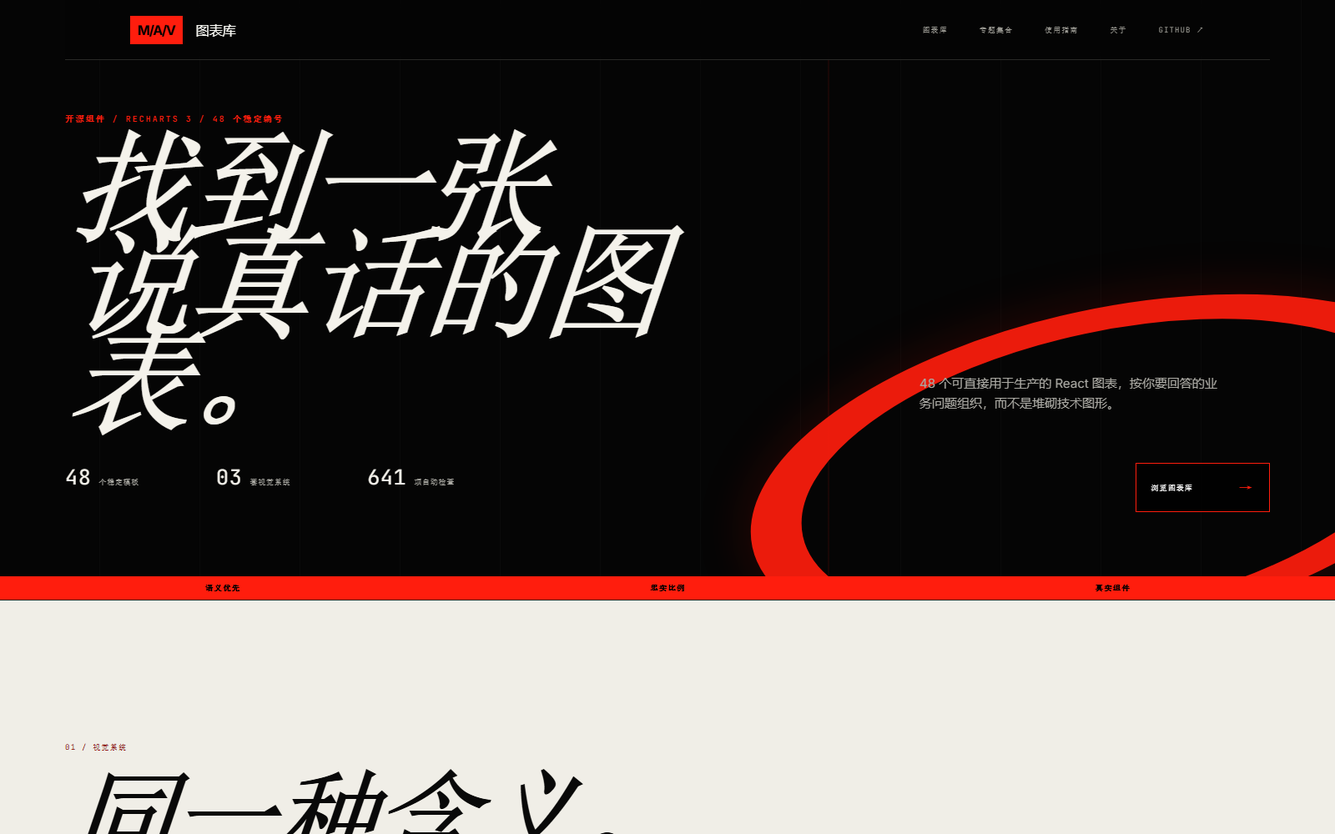
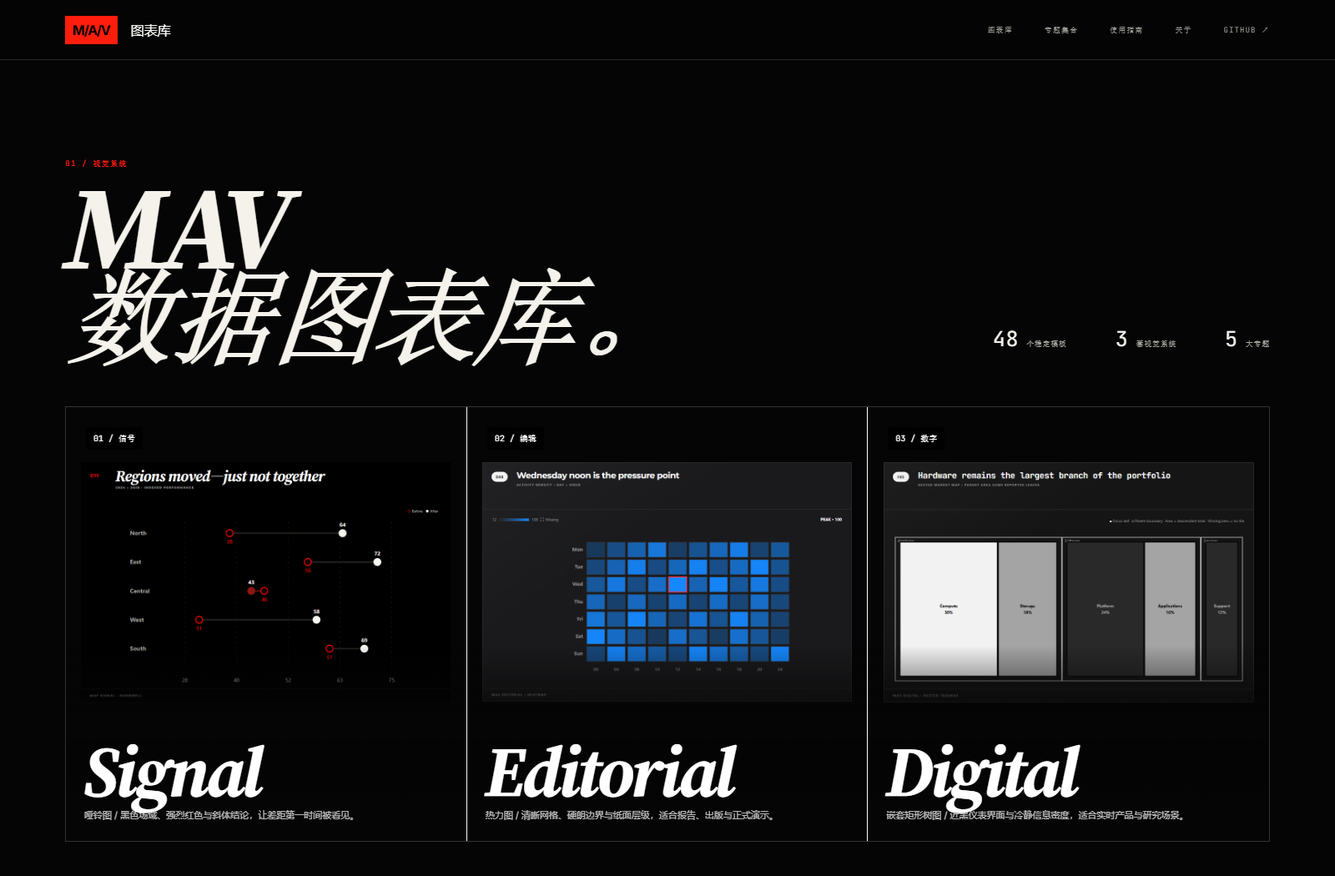
Refine MAV Charts library homepage (#3)
* Refine MAV Charts library homepage

* Refresh repository preview screenshots

diff --git a/src/library/LibraryApp.jsx b/src/library/LibraryApp.jsx
@@ -121,35 +121,45 @@ function SiteFooter() {
   return <footer className="library-footer"><span>MAV CHARTS / {VERSION} 预览版</span><span>图表目录与源码同步 · COMMIT {COMMIT}</span></footer>;
 }
 
+function HeatmapCrystal({ className = "" }) {
+  return (
+    <div className={`heatmap-crystal ${className}`.trim()} aria-hidden="true">
+      <img src={`${import.meta.env.BASE_URL}catalog/D08-signal.png`} alt="" />
+    </div>
+  );
+}
+
+function PageMasthead({ eyebrow, title, copy }) {
+  return (
+    <header className="page-masthead">
+      <span>{eyebrow}</span>
+      <h1>{title}</h1>
+      <p>{copy}</p>
+      <HeatmapCrystal className="masthead-crystal" />
+    </header>
+  );
+}
+
 function HomePage() {
   const featuredIds = ["C10", "T12", "D03", "F02", "P03", "B01"];
   const featured = featuredIds.map((id) => prototypeCatalog.find((item) => item.id === id)).filter(Boolean);
   return (
     <main className="library-shell home-page">
-      <header className="library-hero">
-        <SiteNav />
-        <div className="library-hero-grid">
-          <div className="library-kicker">开源组件 / RECHARTS 3 / 48 个稳定编号</div>
-          <h1>找到一张<br />说真话的图表。</h1>
-          <p>Production React charts organized by the business question—not by a gallery of technical primitives.</p>
-          <div className="library-proof" aria-label="图表库概况"><span><strong>48</strong> 个图表模板</span><span><strong>03</strong> 套视觉系统</span><span><strong>641</strong> 项自动检查</span></div>
-          <a className="site-primary-cta" href={href("/library")}>EXPLORE THE LIBRARY <span>↗</span></a>
+      <SiteNav />
+      <section className="system-manifesto home-system-manifesto" aria-labelledby="systems-heading">
+        <div className="system-intro-heading">
+          <div><div className="section-index">01 / 视觉系统</div><h2 id="systems-heading">MAV<br />数据图表库。</h2></div>
+          <div className="library-proof" aria-label="图表库概况"><span><strong>48</strong> 个稳定模板</span><span><strong>3</strong> 套视觉系统</span><span><strong>5</strong> 大专题</span></div>
         </div>
-        <div className="library-redline" aria-hidden="true"><span>语义优先</span><span>忠实比例</span><span>真实组件</span></div>
-      </header>
-
-      <section className="system-manifesto" aria-labelledby="systems-heading">
-        <div className="section-index">01 / 视觉系统</div>
-        <h2 id="systems-heading">同一种含义。<br />三种表达。</h2>
         <div className="system-manifesto-grid">
-          <article className="system-tile is-signal"><span>01 / 信号</span><img className="system-preview" src={`${import.meta.env.BASE_URL}catalog/D03-signal.png`} alt="Signal 风格气泡象限图" /><h3>Signal</h3><p>黑色场域、强烈红色与斜体结论，让唯一重点第一时间被看见。</p></article>
-          <article className="system-tile is-editorial"><span>02 / 编辑</span><img className="system-preview" src={`${import.meta.env.BASE_URL}catalog/D03-editorial.png`} alt="Editorial 风格气泡象限图" /><h3>Editorial</h3><p>清晰网格、硬朗边界与纸面层级，适合报告、出版与正式演示。</p></article>
-          <article className="system-tile is-digital"><span>03 / 数字</span><img className="system-preview" src={`${import.meta.env.BASE_URL}catalog/D03-digital.png`} alt="Digital 风格气泡象限图" /><h3>Digital</h3><p>近黑仪表界面、细密刻度与冷静信息密度，适合实时产品与研究场景。</p></article>
+          <article className="system-tile is-signal"><span>01 / 信号</span><img className="system-preview" src={`${import.meta.env.BASE_URL}catalog/C11-signal.png`} alt="Signal 风格哑铃图" /><h3>Signal</h3><p>哑铃图 / 黑色场域、强烈红色与斜体结论，让差距第一时间被看见。</p></article>
+          <article className="system-tile is-editorial"><span>02 / 编辑</span><img className="system-preview" src={`${import.meta.env.BASE_URL}catalog/D08-editorial.png`} alt="Editorial 风格热力图" /><h3>Editorial</h3><p>热力图 / 清晰网格、硬朗边界与纸面层级，适合报告、出版与正式演示。</p></article>
+          <article className="system-tile is-digital"><span>03 / 数字</span><img className="system-preview" src={`${import.meta.env.BASE_URL}catalog/F05-digital.png`} alt="Digital 风格嵌套矩形树图" /><h3>Digital</h3><p>嵌套矩形树图 / 近黑仪表界面与冷静信息密度，适合实时产品与研究场景。</p></article>
         </div>
       </section>
 
       <section className="featured-section">
-        <div className="section-heading"><div><span>02 / SELECTED WORK</span><h2>Six ways to make<br />the point visible.</h2></div><a href={href("/library")}>VIEW ALL 48 ↗</a></div>
+        <div className="section-heading"><div><span>02 / SELECTED WORK</span><h2>Six ways to make<br />the point visible.</h2></div><a className="library-browse-cta" href={href("/library")}>浏览图表库 <span>→</span></a></div>
         <div className="library-grid featured-grid">{featured.map((item, index) => <ChartCard key={item.id} item={item} index={index} />)}</div>
       </section>
 
@@ -167,30 +177,21 @@ function HomePageZh() {
   const featured = featuredIds.map((id) => prototypeCatalog.find((item) => item.id === id)).filter(Boolean);
   return (
     <main className="library-shell home-page">
-      <header className="library-hero">
-        <SiteNav />
-        <div className="library-hero-grid">
-          <div className="library-kicker">开源组件 / RECHARTS 3 / 48 个稳定编号</div>
-          <h1>找到一张<br />说真话的图表。</h1>
-          <p>48 个可直接用于生产的 React 图表，按你要回答的业务问题组织，而不是堆砌技术图形。</p>
-          <div className="library-proof" aria-label="图表库概况"><span><strong>48</strong> 个稳定模板</span><span><strong>03</strong> 套视觉系统</span><span><strong>641</strong> 项自动检查</span></div>
-          <a className="site-primary-cta" href={href("/library")}>浏览图表库 <span>→</span></a>
+      <SiteNav />
+      <section className="system-manifesto home-system-manifesto" aria-labelledby="systems-heading-zh">
+        <div className="system-intro-heading">
+          <div><div className="section-index">01 / 视觉系统</div><h2 id="systems-heading-zh">MAV<br />数据图表库。</h2></div>
+          <div className="library-proof" aria-label="图表库概况"><span><strong>48</strong> 个稳定模板</span><span><strong>3</strong> 套视觉系统</span><span><strong>5</strong> 大专题</span></div>
         </div>
-        <div className="library-redline" aria-hidden="true"><span>语义优先</span><span>忠实比例</span><span>真实组件</span></div>
-      </header>
-
-      <section className="system-manifesto" aria-labelledby="systems-heading-zh">
-        <div className="section-index">01 / 视觉系统</div>
-        <h2 id="systems-heading-zh">同一种含义。<br />三种表达。</h2>
         <div className="system-manifesto-grid">
-          <article className="system-tile is-signal"><span>01 / 信号</span><img className="system-preview" src={`${import.meta.env.BASE_URL}catalog/D03-signal.png`} alt="Signal 风格气泡象限图" /><h3>Signal</h3><p>黑色场域、强烈红色与斜体结论，让唯一重点第一时间被看见。</p></article>
-          <article className="system-tile is-editorial"><span>02 / 编辑</span><img className="system-preview" src={`${import.meta.env.BASE_URL}catalog/D03-editorial.png`} alt="Editorial 风格气泡象限图" /><h3>Editorial</h3><p>清晰网格、硬朗边界与纸面层级，适合报告、出版与正式演示。</p></article>
-          <article className="system-tile is-digital"><span>03 / 数字</span><img className="system-preview" src={`${import.meta.env.BASE_URL}catalog/D03-digital.png`} alt="Digital 风格气泡象限图" /><h3>Digital</h3><p>近黑仪表界面、细密刻度与冷静信息密度，适合实时产品与研究场景。</p></article>
+          <article className="system-tile is-signal"><span>01 / 信号</span><img className="system-preview" src={`${import.meta.env.BASE_URL}catalog/C11-signal.png`} alt="Signal 风格哑铃图" /><h3>Signal</h3><p>哑铃图 / 黑色场域、强烈红色与斜体结论，让差距第一时间被看见。</p></article>
+          <article className="system-tile is-editorial"><span>02 / 编辑</span><img className="system-preview" src={`${import.meta.env.BASE_URL}catalog/D08-editorial.png`} alt="Editorial 风格热力图" /><h3>Editorial</h3><p>热力图 / 清晰网格、硬朗边界与纸面层级，适合报告、出版与正式演示。</p></article>
+          <article className="system-tile is-digital"><span>03 / 数字</span><img className="system-preview" src={`${import.meta.env.BASE_URL}catalog/F05-digital.png`} alt="Digital 风格嵌套矩形树图" /><h3>Digital</h3><p>嵌套矩形树图 / 近黑仪表界面与冷静信息密度，适合实时产品与研究场景。</p></article>
         </div>
       </section>
 
       <section className="featured-section">
-        <div className="section-heading"><div><span>02 / 精选图表</span><h2>六种方式，<br />让观点被看见。</h2></div><a href={href("/library")}>查看全部 48 个 →</a></div>
+        <div className="section-heading"><div><span>02 / 精选图表</span><h2>六种方式，<br />让观点被看见。</h2></div><a className="library-browse-cta" href={href("/library")}>浏览图表库 <span>→</span></a></div>
         <div className="library-grid featured-grid">{featured.map((item, index) => <ChartCard key={item.id} item={item} index={index} />)}</div>
       </section>
 
@@ -227,7 +228,7 @@ function CatalogPage() {
   return (
     <main className="library-shell catalog-page">
       <SiteNav compact />
-      <header className="page-masthead"><span>完整索引 / 48</span><h1>图表<br />资料库。</h1><p>按稳定编号、表达目的或使用对象搜索。切换视觉系统，不改变数据本身的叙事。</p></header>
+      <PageMasthead eyebrow="完整索引 / 48" title={<>图表<br />资料库。</>} copy="按稳定编号、表达目的或使用对象搜索。切换视觉系统，不改变数据本身的叙事。" />
       <section className="library-controls" aria-label="图表筛选">
         <label className="library-search"><span>搜索</span><input value={query} onChange={(event) => change("query", event.target.value)} placeholder="图表编号、名称或业务问题…" /></label>
         <label><span>表达目的</span><select value={question} onChange={(event) => change("question", event.target.value)}><option value="all">全部问题</option>{Object.entries(questionLabels).map(([value, label]) => <option value={value} key={value}>{label}</option>)}</select></label>
@@ -297,7 +298,7 @@ function CollectionPage({ audience }) {
   return (
     <main className="library-shell collection-page">
       <SiteNav compact />
-      <header className="page-masthead"><span>场景集合 / {audienceLabels[audience]}</span><h1>为{audienceLabels[audience]}<br />而选。</h1><p>从同一份目录中筛选出 {items.length} 个相关模板。集合只做筛选，不复制或分叉图表元数据。</p></header>
+      <PageMasthead eyebrow={<>场景集合 / {audienceLabels[audience]}</>} title={<>为{audienceLabels[audience]}<br />而选。</>} copy={<>从同一份目录中筛选出 {items.length} 个相关模板。集合只做筛选，不复制或分叉图表元数据。</>} />
       <nav className="collection-tabs" aria-label="使用对象集合">{audiences.map((entry) => <a key={entry} aria-current={entry === audience ? "page" : undefined} href={href(`/collections/${entry}`)}>{audienceLabels[entry]}</a>)}</nav>
       <section className="library-grid">{items.map((item, index) => <ChartCard key={item.id} item={item} index={index} />)}</section>
       <SiteFooter />
@@ -312,11 +313,11 @@ function GuidesPage() {
     ["03", "无障碍可用", "每个模板同时支持指针与键盘交互，并提供屏幕阅读器表格、对比度检查和清晰的减弱动效状态。"],
     ["04", "有意义的动效", "动效只解释进入与变化，绝不改变编码值。截图模式和减弱动效偏好都会直接呈现完整首帧。"],
   ];
-  return <main className="library-shell guide-page"><SiteNav compact /><header className="page-masthead"><span>FIELD MANUAL / 04 PRINCIPLES</span><h1>Choose well.<br />Show honestly.</h1><p>A compact operating guide for teams selecting, reviewing and shipping data graphics.</p></header><section className="guide-grid">{guides.map(([index, title, copy]) => <article key={index}><span>{index}</span><h2>{title}</h2><p>{copy}</p>{index === "01" ? <div className="guide-links">{Object.entries(questionLabels).map(([key, value]) => <a key={key} href={href(`/library?question=${key}`)}>{value} ↗</a>)}</div> : null}</article>)}</section><SiteFooter /></main>;
+  return <main className="library-shell guide-page"><SiteNav compact /><PageMasthead eyebrow="FIELD MANUAL / 04 PRINCIPLES" title={<>Choose well.<br />Show honestly.</>} copy="A compact operating guide for teams selecting, reviewing and shipping data graphics." /><section className="guide-grid">{guides.map(([index, title, copy]) => <article key={index}><span>{index}</span><h2>{title}</h2><p>{copy}</p>{index === "01" ? <div className="guide-links">{Object.entries(questionLabels).map(([key, value]) => <a key={key} href={href(`/library?question=${key}`)}>{value} ↗</a>)}</div> : null}</article>)}</section><SiteFooter /></main>;
 }
 
 function AboutPage() {
-  return <main className="library-shell about-page"><SiteNav compact /><header className="page-masthead"><span>OPEN SOURCE / MIT</span><h1>Charts are<br />public infrastructure.</h1><p>MAV Charts is a typed Recharts library, a tested visual system and a catalog-driven website maintained as one product.</p></header><section className="about-grid"><article><span>01 / REPOSITORY</span><h2>Inspect every decision.</h2><p>All 48 stable IDs, schemas, examples, tests, visual baselines and documentation live in the public repository.</p><a href={REPOSITORY}>OPEN GITHUB ↗</a></article><article><span>02 / LICENSES</span><h2>Clear provenance.</h2><p>The project is MIT licensed. Recharts, bundled fonts and other third-party notices remain documented alongside the source.</p><a href={`${REPOSITORY}/blob/main/THIRD_PARTY_LICENSES.md`}>THIRD-PARTY LICENSES ↗</a></article><article><span>03 / CONTRIBUTE</span><h2>Make the contract stronger.</h2><p>Contributions start with truthful geometry, accessible interaction and visual evidence—not a screenshot alone.</p><a href={`${REPOSITORY}/blob/main/CONTRIBUTING.md`}>CONTRIBUTING GUIDE ↗</a></article></section><SiteFooter /></main>;
+  return <main className="library-shell about-page"><SiteNav compact /><PageMasthead eyebrow="OPEN SOURCE / MIT" title={<>Charts are<br />public infrastructure.</>} copy="MAV Charts is a typed Recharts library, a tested visual system and a catalog-driven website maintained as one product." /><section className="about-grid"><article><span>01 / REPOSITORY</span><h2>Inspect every decision.</h2><p>All 48 stable IDs, schemas, examples, tests, visual baselines and documentation live in the public repository.</p><a href={REPOSITORY}>OPEN GITHUB ↗</a></article><article><span>02 / LICENSES</span><h2>Clear provenance.</h2><p>The project is MIT licensed. Recharts, bundled fonts and other third-party notices remain documented alongside the source.</p><a href={`${REPOSITORY}/blob/main/THIRD_PARTY_LICENSES.md`}>THIRD-PARTY LICENSES ↗</a></article><article><span>03 / CONTRIBUTE</span><h2>Make the contract stronger.</h2><p>Contributions start with truthful geometry, accessible interaction and visual evidence—not a screenshot alone.</p><a href={`${REPOSITORY}/blob/main/CONTRIBUTING.md`}>CONTRIBUTING GUIDE ↗</a></article></section><SiteFooter /></main>;
 }
 
 function GuidesPageZh() {
@@ -326,11 +327,11 @@ function GuidesPageZh() {
     ["03", "无障碍可用", "每个模板同时支持指针与键盘交互，并提供屏幕阅读器表格、对比度检查和清晰的减弱动效状态。"],
     ["04", "有意义的动效", "动效只解释进入与变化，绝不改变编码值。截图模式和减弱动效偏好都会直接呈现完整首帧。"],
   ];
-  return <main className="library-shell guide-page"><SiteNav compact /><header className="page-masthead"><span>使用手册 / 04 条原则</span><h1>选得准确。<br />表达诚实。</h1><p>一份简明操作指南，帮助团队选择、审阅并发布数据图形。</p></header><section className="guide-grid">{guides.map(([index, title, copy]) => <article key={index}><span>{index}</span><h2>{title}</h2><p>{copy}</p>{index === "01" ? <div className="guide-links">{Object.entries(questionLabels).map(([key, value]) => <a key={key} href={href(`/library?question=${key}`)}>{value} →</a>)}</div> : null}</article>)}</section><SiteFooter /></main>;
+  return <main className="library-shell guide-page"><SiteNav compact /><PageMasthead eyebrow="使用手册 / 04 条原则" title={<>选得准确。<br />表达诚实。</>} copy="一份简明操作指南，帮助团队选择、审阅并发布数据图形。" /><section className="guide-grid">{guides.map(([index, title, copy]) => <article key={index}><span>{index}</span><h2>{title}</h2><p>{copy}</p>{index === "01" ? <div className="guide-links">{Object.entries(questionLabels).map(([key, value]) => <a key={key} href={href(`/library?question=${key}`)}>{value} →</a>)}</div> : null}</article>)}</section><SiteFooter /></main>;
 }
 
 function AboutPageZh() {
-  return <main className="library-shell about-page"><SiteNav compact /><header className="page-masthead"><span>开源项目 / MIT</span><h1>图表也是<br />公共基础设施。</h1><p>MAV Charts 把类型化 Recharts 组件、经过验证的视觉系统和目录驱动网站维护为同一个产品。</p></header><section className="about-grid"><article><span>01 / 代码仓库</span><h2>查看每一个决定。</h2><p>48 个稳定编号、数据结构、示例、测试、视觉基线和文档都在公开仓库中。</p><a href={REPOSITORY}>打开 GitHub ↗</a></article><article><span>02 / 开源许可</span><h2>来源清晰。</h2><p>项目采用 MIT 许可证。Recharts、内置字体和其他第三方声明均与源码一起记录。</p><a href={`${REPOSITORY}/blob/main/THIRD_PARTY_LICENSES.md`}>查看第三方许可 ↗</a></article><article><span>03 / 参与贡献</span><h2>让约定更可靠。</h2><p>贡献从真实比例、无障碍交互和可验证的视觉证据开始，而不只是一张截图。</p><a href={`${REPOSITORY}/blob/main/CONTRIBUTING.md`}>阅读贡献指南 ↗</a></article></section><SiteFooter /></main>;
+  return <main className="library-shell about-page"><SiteNav compact /><PageMasthead eyebrow="开源项目 / MIT" title={<>图表也是<br />公共基础设施。</>} copy="MAV Charts 把类型化 Recharts 组件、经过验证的视觉系统和目录驱动网站维护为同一个产品。" /><section className="about-grid"><article><span>01 / 代码仓库</span><h2>查看每一个决定。</h2><p>48 个稳定编号、数据结构、示例、测试、视觉基线和文档都在公开仓库中。</p><a href={REPOSITORY}>打开 GitHub ↗</a></article><article><span>02 / 开源许可</span><h2>来源清晰。</h2><p>项目采用 MIT 许可证。Recharts、内置字体和其他第三方声明均与源码一起记录。</p><a href={`${REPOSITORY}/blob/main/THIRD_PARTY_LICENSES.md`}>查看第三方许可 ↗</a></article><article><span>03 / 参与贡献</span><h2>让约定更可靠。</h2><p>贡献从真实比例、无障碍交互和可验证的视觉证据开始，而不只是一张截图。</p><a href={`${REPOSITORY}/blob/main/CONTRIBUTING.md`}>阅读贡献指南 ↗</a></article></section><SiteFooter /></main>;
 }
 
 function NotFoundZh() {

diff --git a/src/library/library.css b/src/library/library.css
@@ -17,3 +17,78 @@
 .collection-tabs{display:flex;gap:1px;padding:0 clamp(22px,5vw,78px) 46px;overflow-x:auto;background:#070707}.collection-tabs a{min-width:150px;padding:16px;border:1px solid #292926;color:#8d8c86;font:8px "MAV Mono",monospace;letter-spacing:.1em;text-align:center;text-decoration:none;text-transform:uppercase}.collection-tabs a[aria-current=page]{border-color:#ff1d0d;color:#fff;background:#29100d}.guide-grid,.about-grid{display:grid;grid-template-columns:repeat(2,minmax(0,1fr))}.guide-grid article,.about-grid article{min-height:430px;padding:clamp(54px,7vw,94px) clamp(22px,5vw,70px);border-right:1px solid #292926;border-bottom:1px solid #292926}.guide-grid article:nth-child(even),.about-grid article:nth-child(even){border-right:0}.guide-grid h2,.about-grid h2{max-width:600px;margin:30px 0 24px;font:italic 900 clamp(48px,6vw,88px)/.86 "MAV Chiron",Georgia,serif;letter-spacing:-.045em}.guide-grid p,.about-grid p{max-width:610px;color:#999892;font-size:13px;line-height:1.75}.guide-links{display:flex;flex-wrap:wrap;gap:8px;margin-top:36px}.guide-links a,.about-grid a{padding:9px 11px;border:1px solid #3a3a36;color:#dddcd5;font:8px "MAV Mono",monospace;letter-spacing:.08em;text-decoration:none}.not-found>section{display:grid;min-height:calc(100vh - 126px);place-content:center;padding:40px;text-align:center}.not-found h1{margin:24px 0 48px;font:italic 900 clamp(74px,14vw,180px)/.78 "MAV Chiron",Georgia,serif}.not-found>section>span,.not-found>section>a{color:#ff1d0d;font:9px "MAV Mono",monospace;letter-spacing:.12em;text-decoration:none}
 @media(max-width:900px){.site-nav-links a:nth-child(2),.site-nav-links a:nth-child(3){display:none}.system-manifesto-grid,.detail-documentation,.guide-grid,.about-grid{grid-template-columns:1fr}.system-tile{min-height:300px;border-right:0;border-bottom:1px solid currentColor}.system-tile:last-child{border-bottom:0}.audience-strip,.alternative-section{grid-template-columns:1fr}.detail-header{grid-template-columns:90px 1fr}.detail-version{grid-column:2;justify-items:start}.detail-facts{grid-template-columns:repeat(2,1fr)}.detail-documentation article{border-right:0}.alternative-section a{grid-template-columns:48px 1fr}.alternative-section a small{grid-column:2}}
 @media(max-width:640px){.site-nav{min-height:64px;padding-inline:18px}.site-nav-links{gap:14px}.site-nav-links a{display:none}.site-nav-links a:first-child,.site-nav-links a:last-child{display:inline}.site-primary-cta{right:20px;bottom:76px;left:20px;justify-content:space-between}.system-manifesto,.featured-section,.audience-strip{padding-top:82px}.system-manifesto>h2,.section-heading h2,.audience-strip h2{margin-bottom:40px}.section-heading{align-items:start;flex-direction:column}.page-masthead{display:block;min-height:570px;padding-top:92px}.page-masthead h1{margin-top:76px;font-size:clamp(74px,24vw,112px)}.page-masthead p{margin-top:48px}.catalog-page .library-controls{top:64px}.detail-header{grid-template-columns:1fr;padding-top:72px}.detail-header h1{font-size:58px}.detail-version{grid-column:1}.detail-toolbar{align-items:stretch;flex-direction:column}.site-system-switch{min-width:0}.detail-stage iframe{height:620px;min-height:0}.detail-facts{grid-template-columns:1fr}.detail-facts>div{border-right:0;border-bottom:1px solid #292926}.detail-documentation .code-example>button{position:static;margin-top:16px}.detail-actions{grid-template-columns:1fr}.detail-actions>*{border-right:0;border-bottom:1px solid #4e120e}.guide-grid article,.about-grid article{min-height:360px}}
+
+/* Home and masthead chart showcases */
+.home-page .library-hero::after{display:none;content:none}
+.home-page .library-hero-grid{grid-template-columns:minmax(0,1fr) minmax(280px,390px);column-gap:clamp(34px,6vw,96px)}
+.home-page .library-hero h1{max-width:720px;font-size:clamp(47px,6.975vw,111px)}
+.hero-showcase{grid-column:2;grid-row:2 / span 2;align-self:center;margin:0}
+.hero-showcase figcaption{max-width:360px;margin-top:16px;color:#d0cec6;font-size:14px;line-height:1.55}
+.heatmap-crystal{position:relative;width:100%;aspect-ratio:1;border:1px solid rgba(255,255,255,.32);background:linear-gradient(145deg,rgba(255,255,255,.14),rgba(255,255,255,.025) 42%,rgba(255,29,13,.08));box-shadow:inset 0 1px 0 rgba(255,255,255,.28),inset 0 0 42px rgba(255,255,255,.04),0 26px 70px rgba(0,0,0,.4),0 0 54px rgba(255,29,13,.08);backdrop-filter:blur(16px);overflow:hidden}
+.heatmap-crystal::before{position:absolute;inset:9px;z-index:1;border:1px solid rgba(255,255,255,.13);content:"";pointer-events:none}
+.heatmap-crystal::after{position:absolute;top:-35%;left:-70%;width:110%;height:170%;background:linear-gradient(105deg,transparent 35%,rgba(255,255,255,.11) 50%,transparent 64%);content:"";transform:rotate(12deg);pointer-events:none}
+.heatmap-crystal img{width:100%;height:100%;padding:16px;object-fit:contain;filter:saturate(.92) contrast(1.04)}
+
+/* Complete, non-cropped previews for the three visual systems */
+.system-manifesto-grid{background:#050505}
+.system-tile{display:grid;grid-template-rows:minmax(0,1fr) auto auto;min-height:520px;padding:0;background:#050505!important;overflow:hidden}
+.system-tile:after{background:linear-gradient(180deg,transparent 0 55%,rgba(5,5,5,.76) 72%,#050505 100%)}
+.system-preview{position:relative;inset:auto;grid-row:1;width:100%;height:auto;aspect-ratio:960/624;margin-top:54px;padding:12px;object-fit:contain;object-position:center;transform:none;background:#050505}
+.system-tile:hover .system-preview{transform:scale(1.015);filter:contrast(1.04)}
+.system-tile h3{position:relative;left:auto;bottom:auto;z-index:2;grid-row:2;margin:-12px 22px 0;font-size:clamp(48px,5vw,76px)}
+.system-tile p{position:relative;right:auto;bottom:auto;left:auto;z-index:2;grid-row:3;width:auto;margin:12px 22px 22px;color:rgba(255,255,255,.72)}
+
+/* Shared inner-page masthead: crystal heatmap replaces the red ring. */
+.page-masthead{grid-template-columns:minmax(0,1.2fr) minmax(300px,.6fr);grid-template-rows:auto 1fr auto;column-gap:clamp(44px,7vw,110px);min-height:620px}
+.page-masthead:after{content:none}
+.page-masthead>span{grid-column:1/-1}
+.page-masthead h1{grid-column:1;grid-row:2;align-self:end}
+.page-masthead p{grid-column:1;grid-row:3;align-self:start;max-width:560px;margin:28px 0 0}
+.masthead-crystal{grid-column:2;grid-row:2 / span 2;align-self:center;justify-self:end;width:min(34vw,430px)}
+
+@media(max-width:900px){
+  .home-page .library-hero-grid{grid-template-columns:minmax(0,1fr) minmax(240px,320px);column-gap:30px}
+  .system-tile{min-height:500px}
+  .system-preview{max-height:320px}
+  .page-masthead{grid-template-columns:minmax(0,1fr) minmax(240px,320px);min-height:560px;column-gap:32px}
+}
+
+@media(max-width:640px){
+  .home-page .library-hero{min-height:900px}
+  .home-page .library-hero-grid{display:grid;grid-template-columns:1fr;min-height:820px;padding-top:54px}
+  .home-page .library-hero h1{grid-column:1;font-size:clamp(44px,15vw,69px)}
+  .hero-showcase{grid-column:1;grid-row:auto;width:min(100%,360px);margin-top:34px}
+  .home-page .library-proof{grid-column:1;margin-top:34px}
+  .site-primary-cta{grid-column:1;justify-self:stretch;margin-top:26px}
+  .system-tile{min-height:460px}
+  .system-preview{max-height:none;margin-top:50px}
+  .page-masthead{display:grid;grid-template-columns:1fr;grid-template-rows:auto auto auto auto;min-height:0;padding-top:78px}
+  .page-masthead h1{grid-column:1;grid-row:2;margin-top:58px;font-size:clamp(58px,20vw,92px)}
+  .masthead-crystal{grid-column:1;grid-row:3;width:min(100%,390px);margin-top:48px;justify-self:start}
+  .page-masthead p{grid-column:1;grid-row:4;margin:28px 0 0}
+}
+
+/* Compact home: the visual systems section is now the opening statement. */
+.home-system-manifesto{padding:clamp(76px,8vw,118px) clamp(22px,5vw,78px) clamp(70px,7vw,104px);color:#f4f2eb;background:#050505}
+.home-system-manifesto .section-index{color:#ff1d0d}
+.system-intro-heading{display:grid;grid-template-columns:minmax(0,1fr) auto;gap:clamp(34px,7vw,110px);align-items:end;margin-bottom:56px}
+.system-intro-heading h2{margin:22px 0 0;font:italic 900 clamp(62px,8vw,126px)/.82 "MAV Chiron",Georgia,serif;letter-spacing:-.055em}
+.home-system-manifesto .library-proof{grid-column:auto;justify-content:flex-end;gap:clamp(24px,3.8vw,58px);margin:0 0 8px;text-align:right}
+.home-system-manifesto .system-manifesto-grid{border-color:#343430}
+.library-browse-cta{display:flex;align-items:center;gap:46px;padding:15px 17px;border:1px solid #ff1d0d;color:#fff!important;background:#050505;transition:color .2s ease,background .2s ease}
+.library-browse-cta span{color:#ff1d0d;font-size:17px;line-height:1}
+.library-browse-cta:hover,.library-browse-cta:focus-visible{color:#050505!important;background:#ff1d0d}
+.library-browse-cta:hover span,.library-browse-cta:focus-visible span{color:#050505}
+
+@media(max-width:900px){
+  .system-intro-heading{grid-template-columns:1fr;align-items:start}
+  .home-system-manifesto .library-proof{justify-content:flex-start;text-align:left}
+}
+
+@media(max-width:640px){
+  .home-system-manifesto{padding-top:66px}
+  .system-intro-heading{gap:34px;margin-bottom:42px}
+  .system-intro-heading h2{font-size:clamp(56px,20vw,84px)}
+  .home-system-manifesto .library-proof{flex-wrap:wrap;gap:18px 26px;margin:0;overflow:visible}
+  .section-heading .library-browse-cta{align-self:stretch;justify-content:space-between;margin:0}
+}
